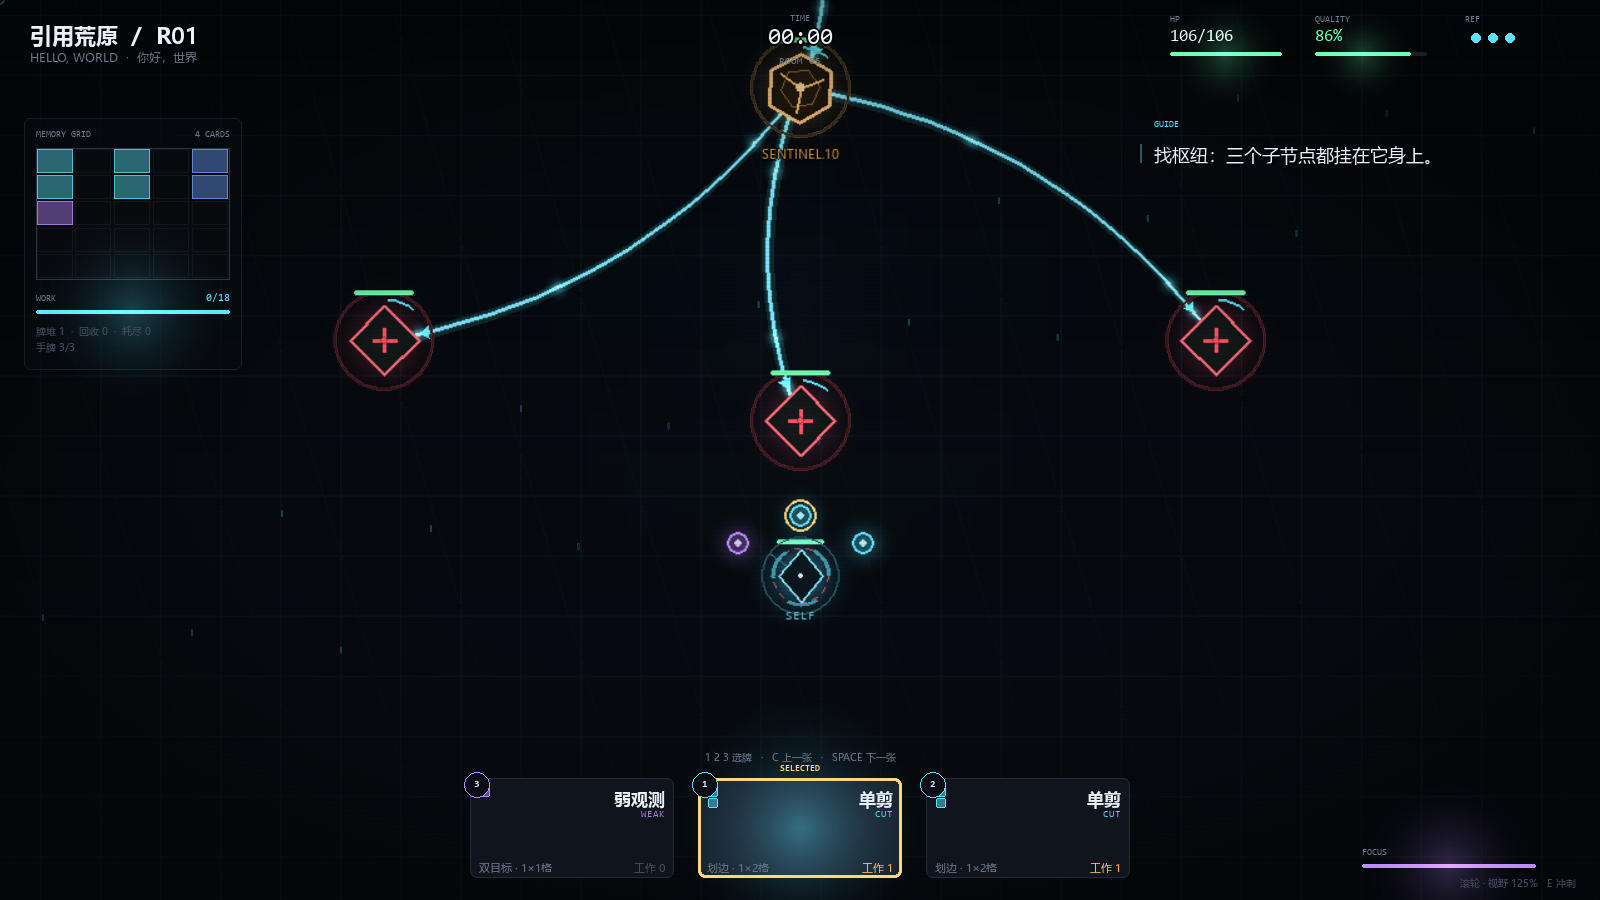
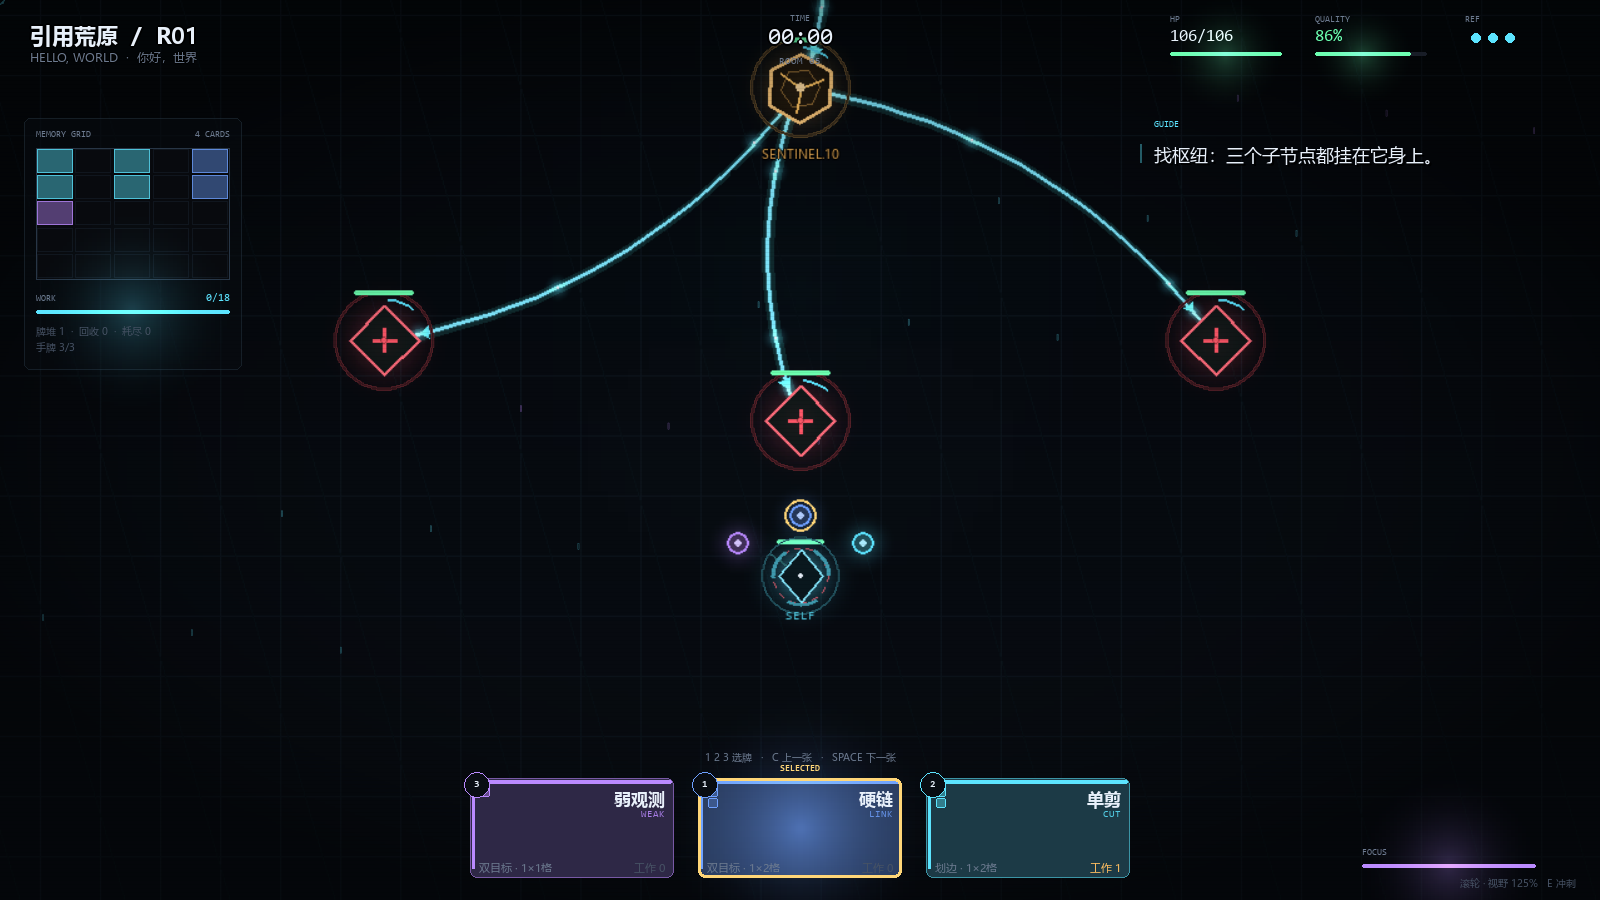
fix: color-code hand cards

Changed region(s): [[0.2812, 0.84, 0.7188, 0.9956]]

diff --git a/memory_run/ui/render_common.py b/memory_run/ui/render_common.py
@@ -56,10 +56,20 @@ def draw_card(screen, rect, key, up=False, selected=False, hover=False,
               alpha=255, compact=False):
     d = CARD_DEFS[key]
     col = d["color"]
-    fill = (16, 20, 29) if not selected else (24, 32, 44)
+    # 卡面先铺不透明深底，再压进卡牌自己的颜色；避免三张牌看起来都一样、像半透明
+    fill = mix((12, 16, 24), col, 0.30 if selected else 0.20)
+    if hover:
+        fill = mix(fill, WHITE, 0.05)
+    if up:
+        fill = mix(fill, GOLD, 0.08)
     pygame.draw.rect(screen, fill, rect, border_radius=7)
-    border = GOLD if up else (col if (selected or hover) else PANEL_LINE)
+    border = GOLD if up else (col if (selected or hover) else dim(col, 0.65))
     pygame.draw.rect(screen, border, rect, 2 if selected else 1, border_radius=7)
+    # 顶部 / 左侧色条：让卡牌类型在不看文字时也能分辨
+    pygame.draw.rect(screen, col, (rect.x + 2, rect.y + 2, rect.w - 4, 4),
+                     border_radius=2)
+    pygame.draw.rect(screen, col, (rect.x + 2, rect.y + 9, 3, rect.h - 18),
+                     border_radius=1)
     if selected:
         glow(screen, rect.centerx, rect.centery, rect.w * 0.75, col, 0.35)
     # 形状缩略图

diff --git a/docs/CONTENT.md b/docs/CONTENT.md
@@ -96,6 +96,7 @@
 - 全屏战场，默认视野已放大；滚轮在 100%–200% 间调整，镜头跟随玩家。
 - HUD 为透明浮层：左侧保留内存网格，右侧显示当前提示/卡牌详情，顶部只留时间与紧凑状态。
 - 底部只有 3 张手牌，没有弃牌按钮；选中的牌固定在中间并高亮。
+- 卡面使用卡牌类型色（CUT 青、LINK 蓝、WEAK 紫等）作为不透明底色和色条，不再使用统一深色底。
 - 角色头顶有三颗弧形手牌球：左=上一张、中=当前选中、右=下一张；颜色与卡牌同步。
 - 中间手牌球和底部选中牌都有金色描边。
 

diff --git a/CHANGELOG.md b/CHANGELOG.md
@@ -11,6 +11,7 @@ Alpha 阶段不保证存档/接口兼容。
 - 每张卡每房第一次使用后随机放回牌堆，第二次使用后本房耗尽；下一房重置
 - 战斗界面改为全屏战场 + 透明浮层；手牌居中，选中牌高亮
 - 角色头顶新增三色弧形手牌球，中间球对应选中牌
+- 手牌卡面按卡牌类型着色，改为不透明底色 + 类型色条，避免三张牌看起来一样
 - `C` / `Space` 切换上/下一张手牌，`Shift` 时间减速，`E` 冲刺，滚轮缩放视野
 - `reg` Boss 规则改为“回收置顶”
 
